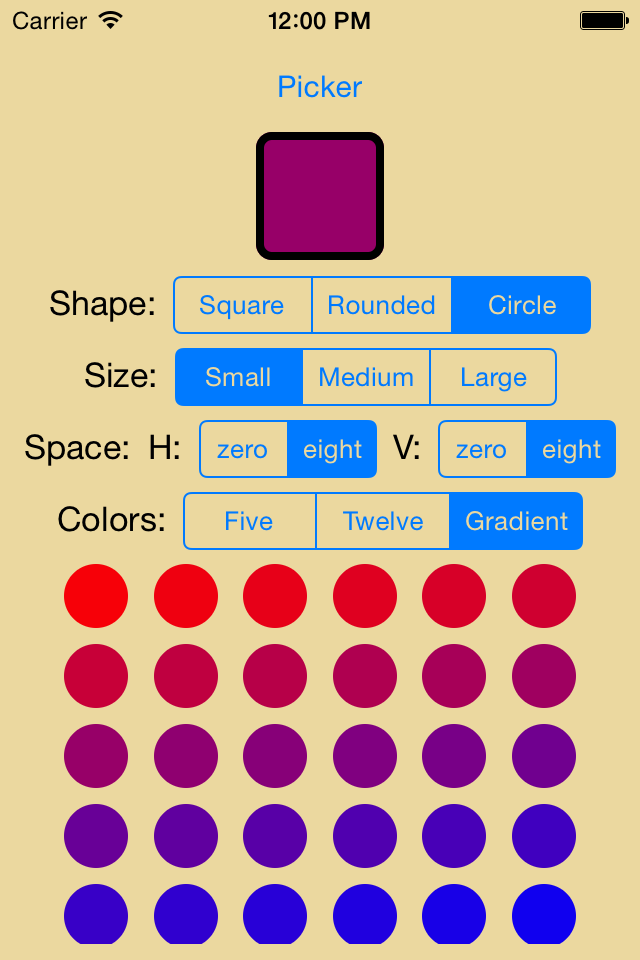
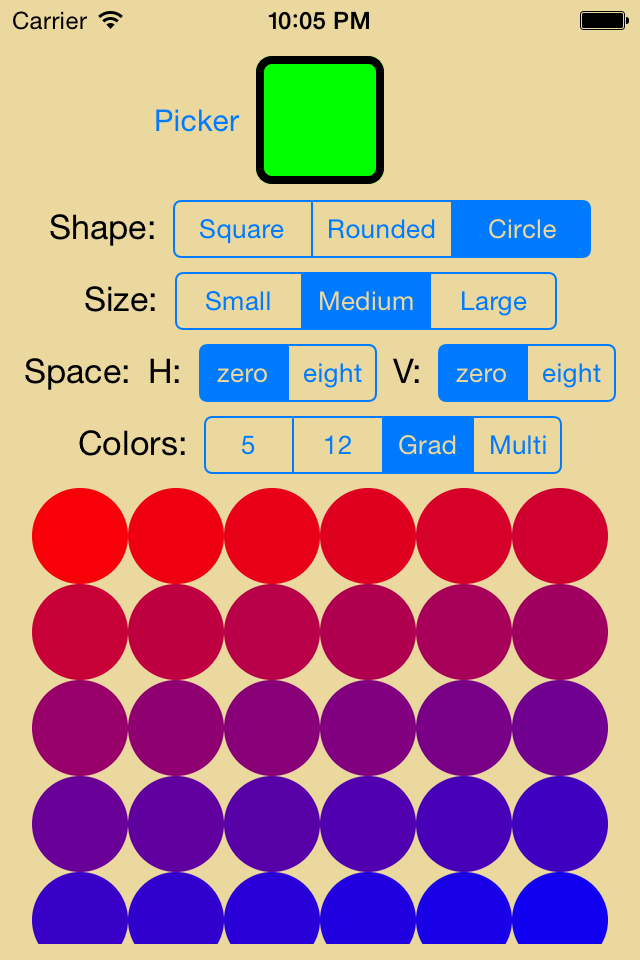
Update screen shots Update ReadMe Fix storyboard warnings

diff --git a/README.md b/README.md
@@ -30,12 +30,14 @@
 >     self.colorPicker.embedColorPickerInView(self.embedView, forDelegate: self)
 
 8. Customize as desired
+>        You can use your own set of colors (Alpha and hash tag #ffffffff is also supported)
+>        self.colorPicker.changeColorSet(["ffffff","ff0000","00ff00","0000ff","000000"])
+>
 >        You can set the colors to a gradient of your choosing
 >        self.colorPicker.changeColorToGradient("ff0000", endColor: "0000ff", steps: 32)
 >
->        You can use your own set of colors (Alpha and hash tag #ffffffff is also supported)
->        self.colorPicker.changeColorSet(["ffffff","ff0000","00ff00","0000ff","000000"])
->        
+>        You van set an array of gradients:
+>        self.colorPicker.changeColorToGradientArray(["ffffff","000000","ff0000","00ff00","0000ff"], steps: 16)
 >
 >        You can set the size of the touch targets for the colors
 >        self.colorPicker.changeDiameter(32.0)
@@ -45,6 +47,7 @@
 >        .square, and .circle are provided as well
 >
 >        You can change the space between rows and columns of colors.
+>        self.colorPicker.changeSpaceBetweenColors(8.0, columns: 8.0)
 
 9. Implement the single delegate method:
 >	    func colorChosen(color: UIColor) {
@@ -68,7 +71,6 @@ Bush Software <http://www.bushsoftware.com>
 * Test on TVOS
 
 ### Features
-* More flexible color strings (RGBA, HSV, etc...)
 * A method to provide a mask and or a frame for chips
 
 ### Tests
